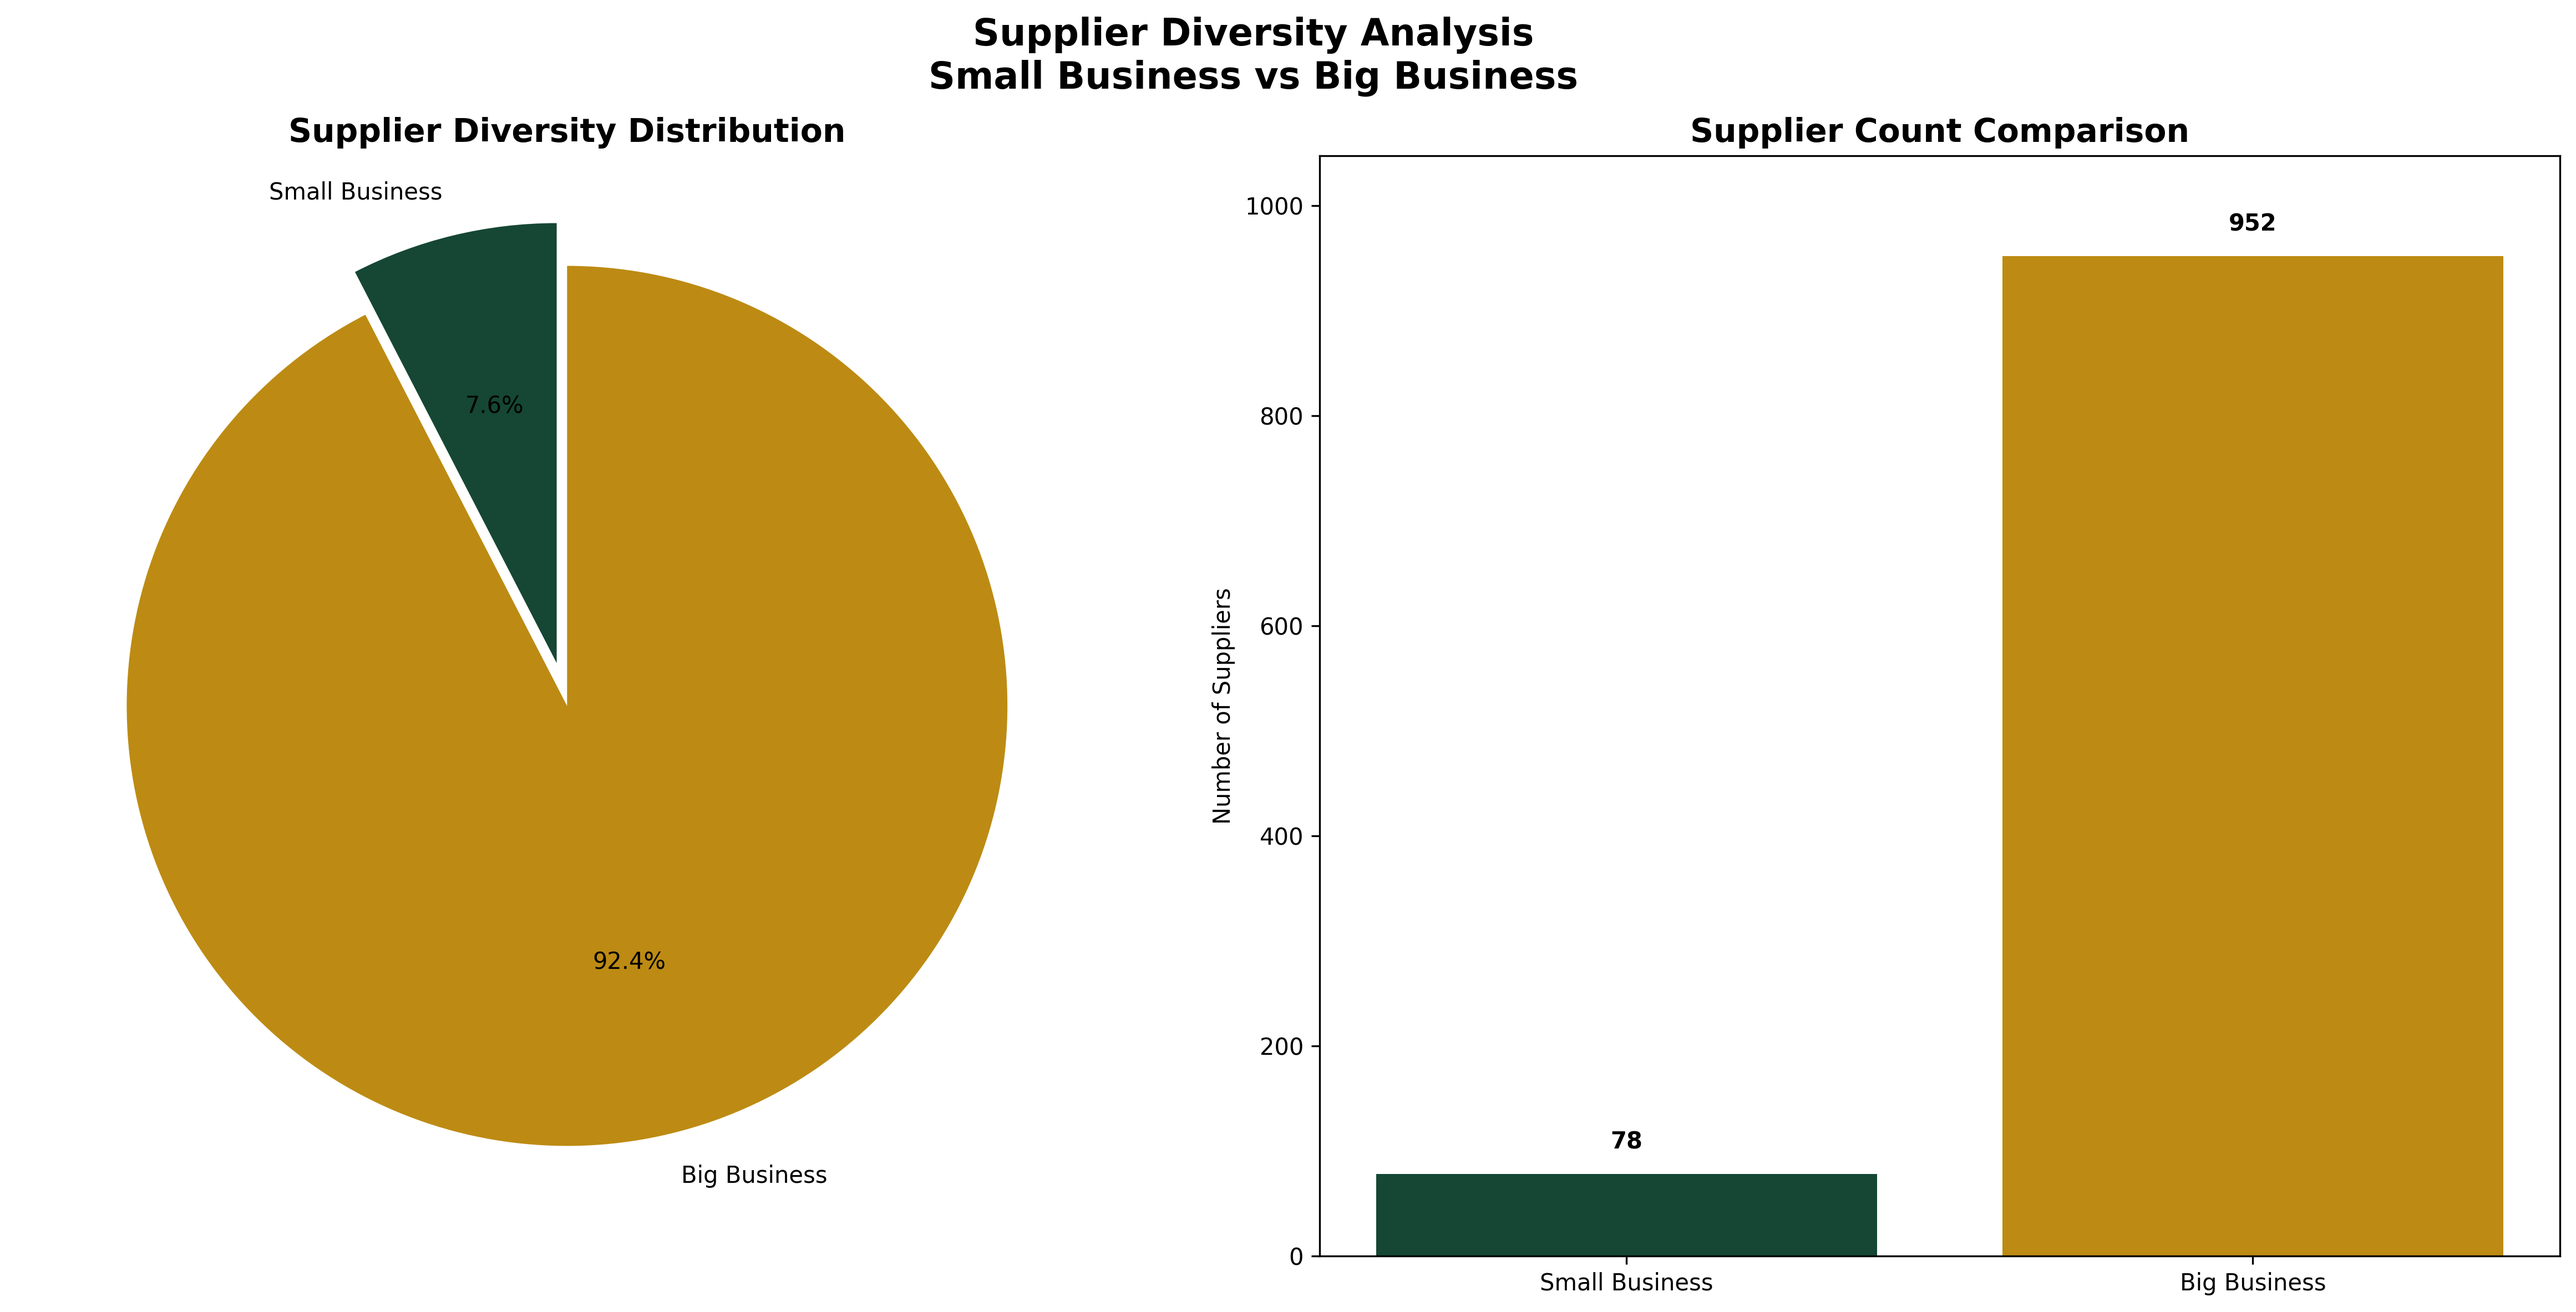
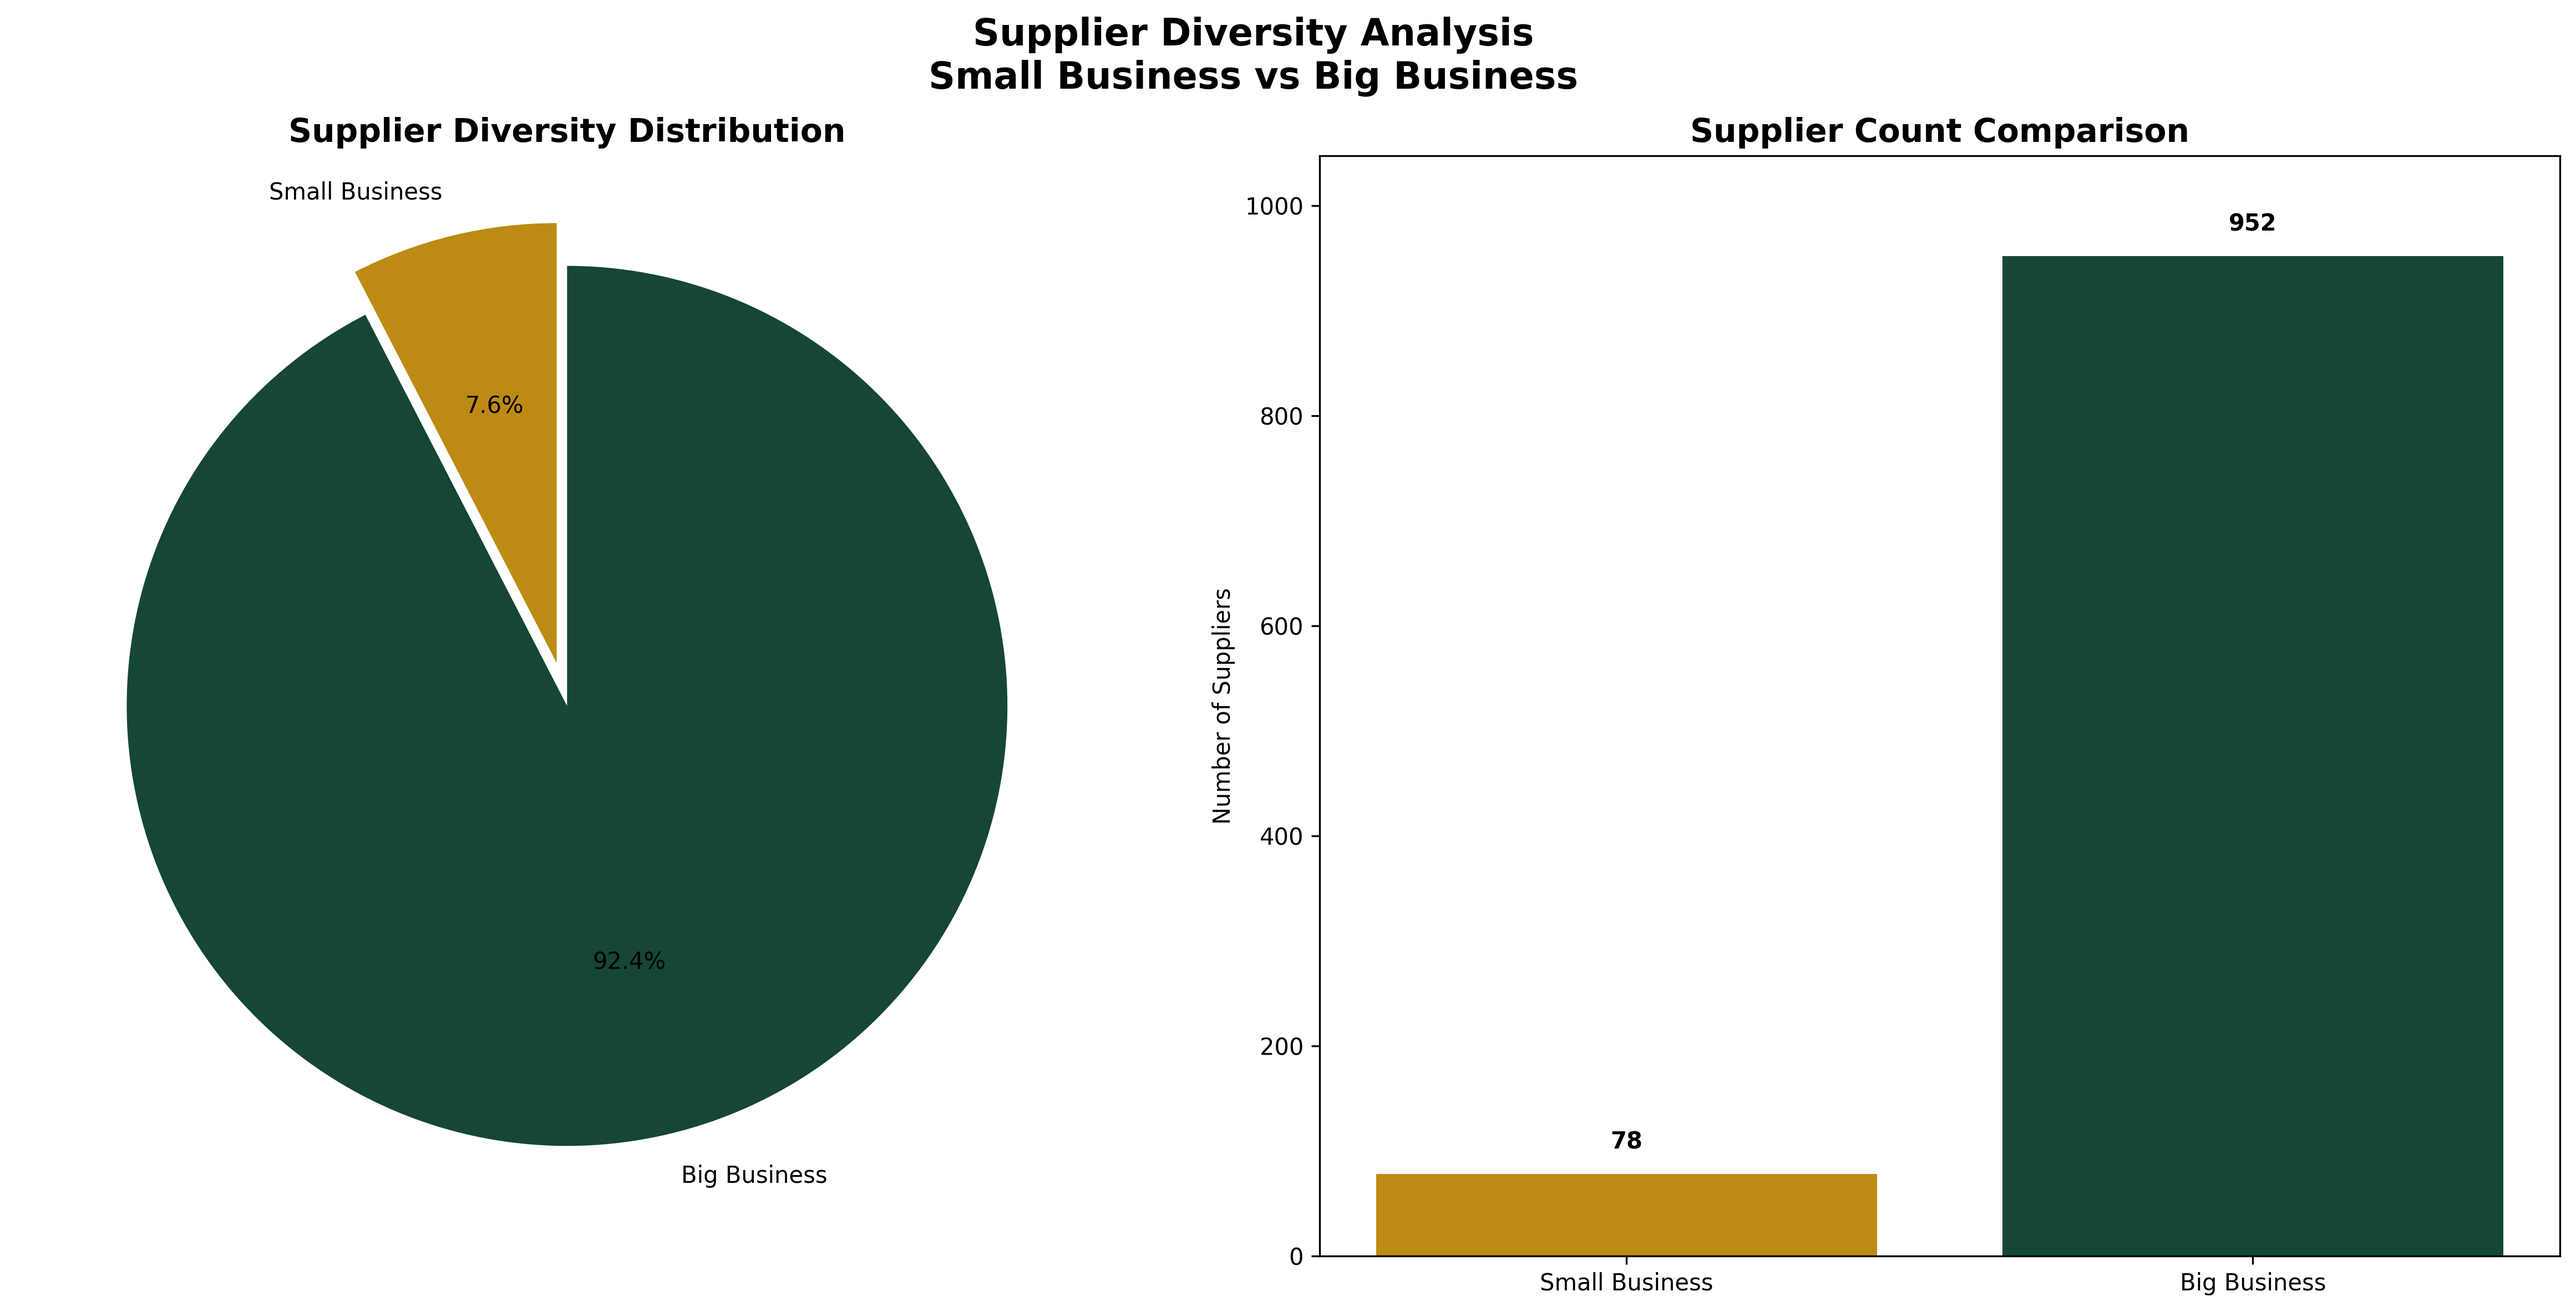
flipped colors

diff --git a/supplier_analysis.py b/supplier_analysis.py
@@ -72,7 +72,7 @@ if __name__ == "__main__":
     sizes = [small_count, big_count]
     poly_green = "#154734"
     mustang_gold = "#BD8B13"
-    colors = [poly_green, mustang_gold]
+    colors = [mustang_gold, poly_green]
     explode = (0.1, 0)  # explode small business slice
     
     ax1.pie(sizes, explode=explode, labels=labels, colors=colors, autopct='%1.1f%%',
